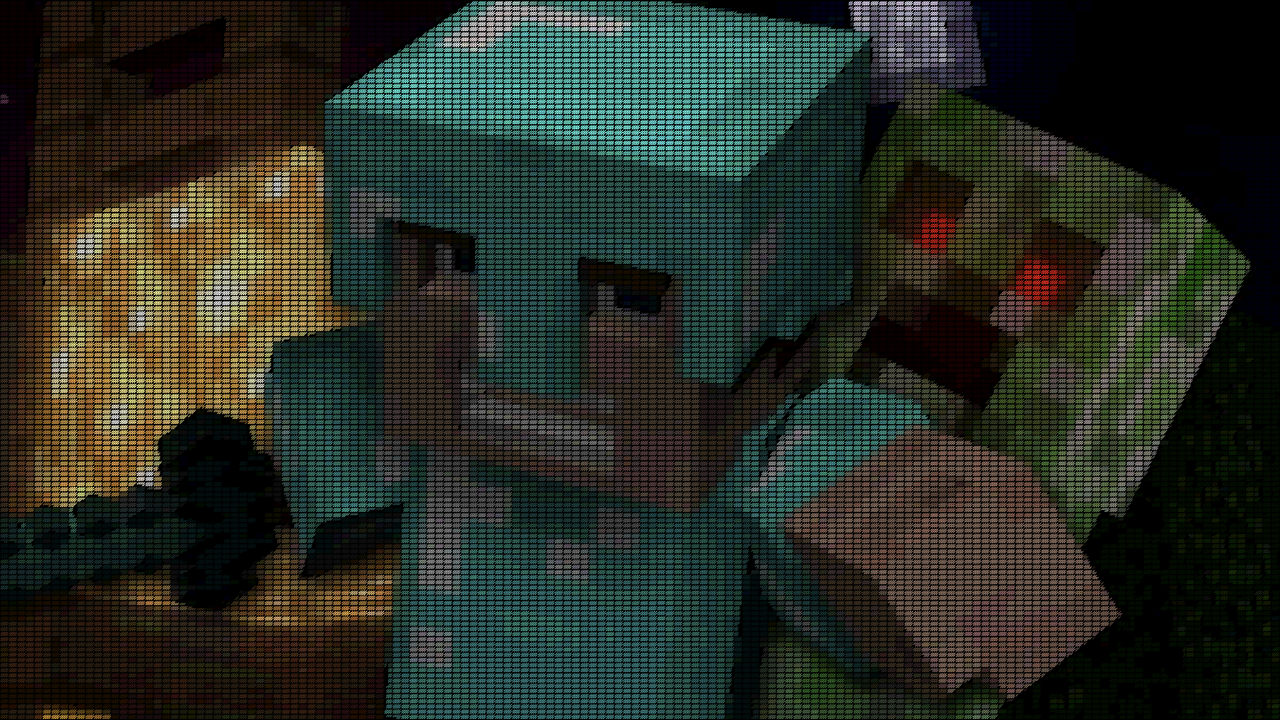
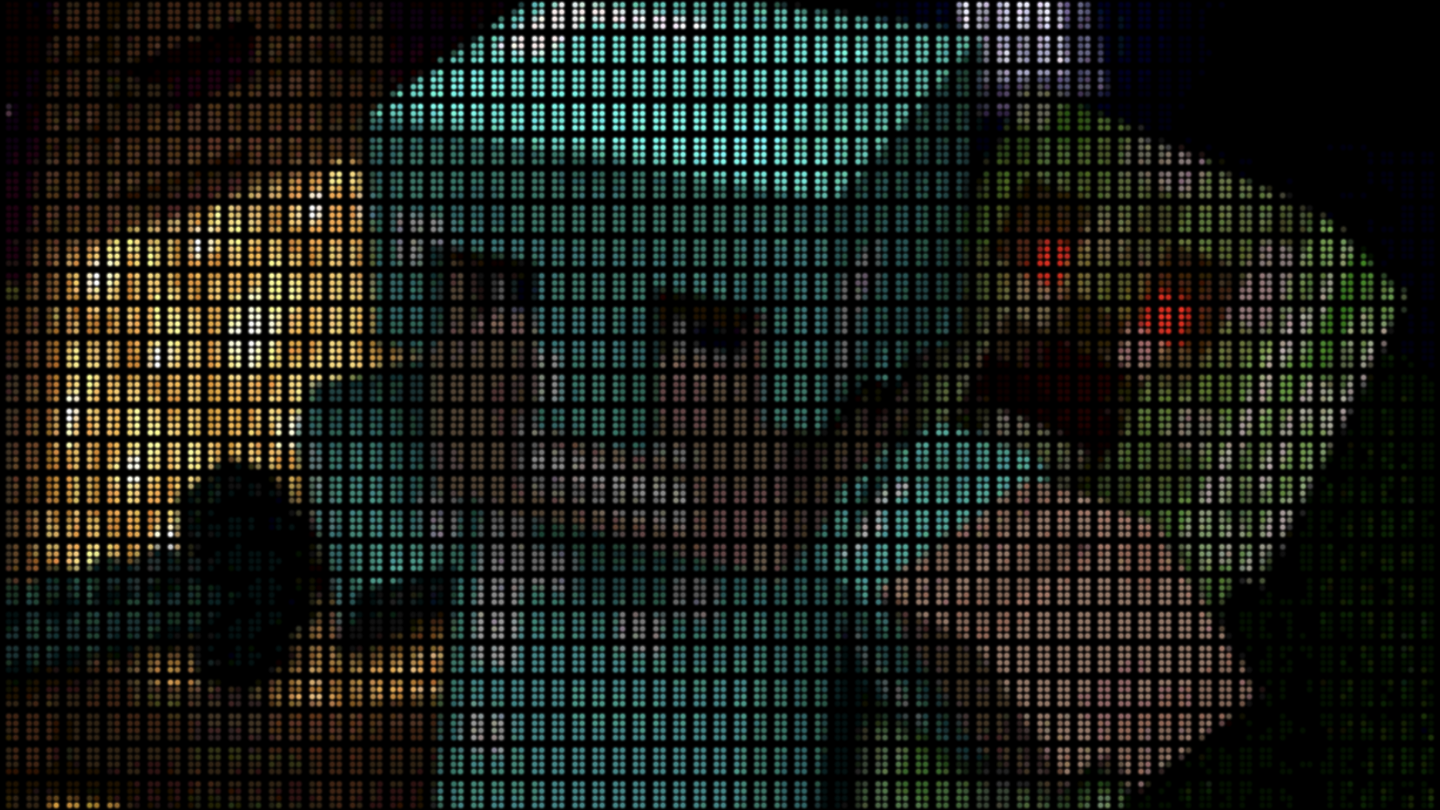
Update thumbnails

diff --git a/README.md b/README.md
@@ -90,19 +90,19 @@
     1. Download/create a thumbnail, crop it to 16:9 and save it as `original.png`
     2. Convert the original thumbnail to Srv3:
         ```bash
-        mp4_to_srv3 videos/{videoNumber}/thumbnails/original.png --rows 84
+        mp4_to_srv3 videos/{videoNumber}/thumbnails/original.png \
+            --submsoffset 4000 --rows 24 --layers 8
         ```
     3. Upload the output Srv3 as a subtitle to any video in YouTube Studio
-    4. Set character edge style to "raised", take a screenshot, crop it and save it as `ascii.png`
-    5. Combine both thumbnails and save them as `combined.png`
+    4. Set character edge style to "outline", take a screenshot, crop it and save it as `ascii.png`
 
 ### Step 2 - Add a new entry to `"videos"` in [`config/settings.json`](config/settings.json)
 
 - Set `"videoNumber"` to `{videoNumber}`
 - Set `"skipped"` to `false`
-- Set `"title"` to `"{artist} - {name} - but it's subtitles"`
+- Set `"title"` to `"{artist} - {name} - but it's colored braille"`
 - Add lyrics/translations, timestamps and relevant links to `"descriptionLines"`
-- Set `"thumbnailName"` to `"combined"`
+- Set `"thumbnailName"` to `"ascii"`
 - Add relevant playlist titles from https://www.youtube.com/@nicezombies1/playlists
 - Add relevant tags
 - Set `"categoryTitle"` to one of the categories from [`config/categories.json`](config/categories.json)
